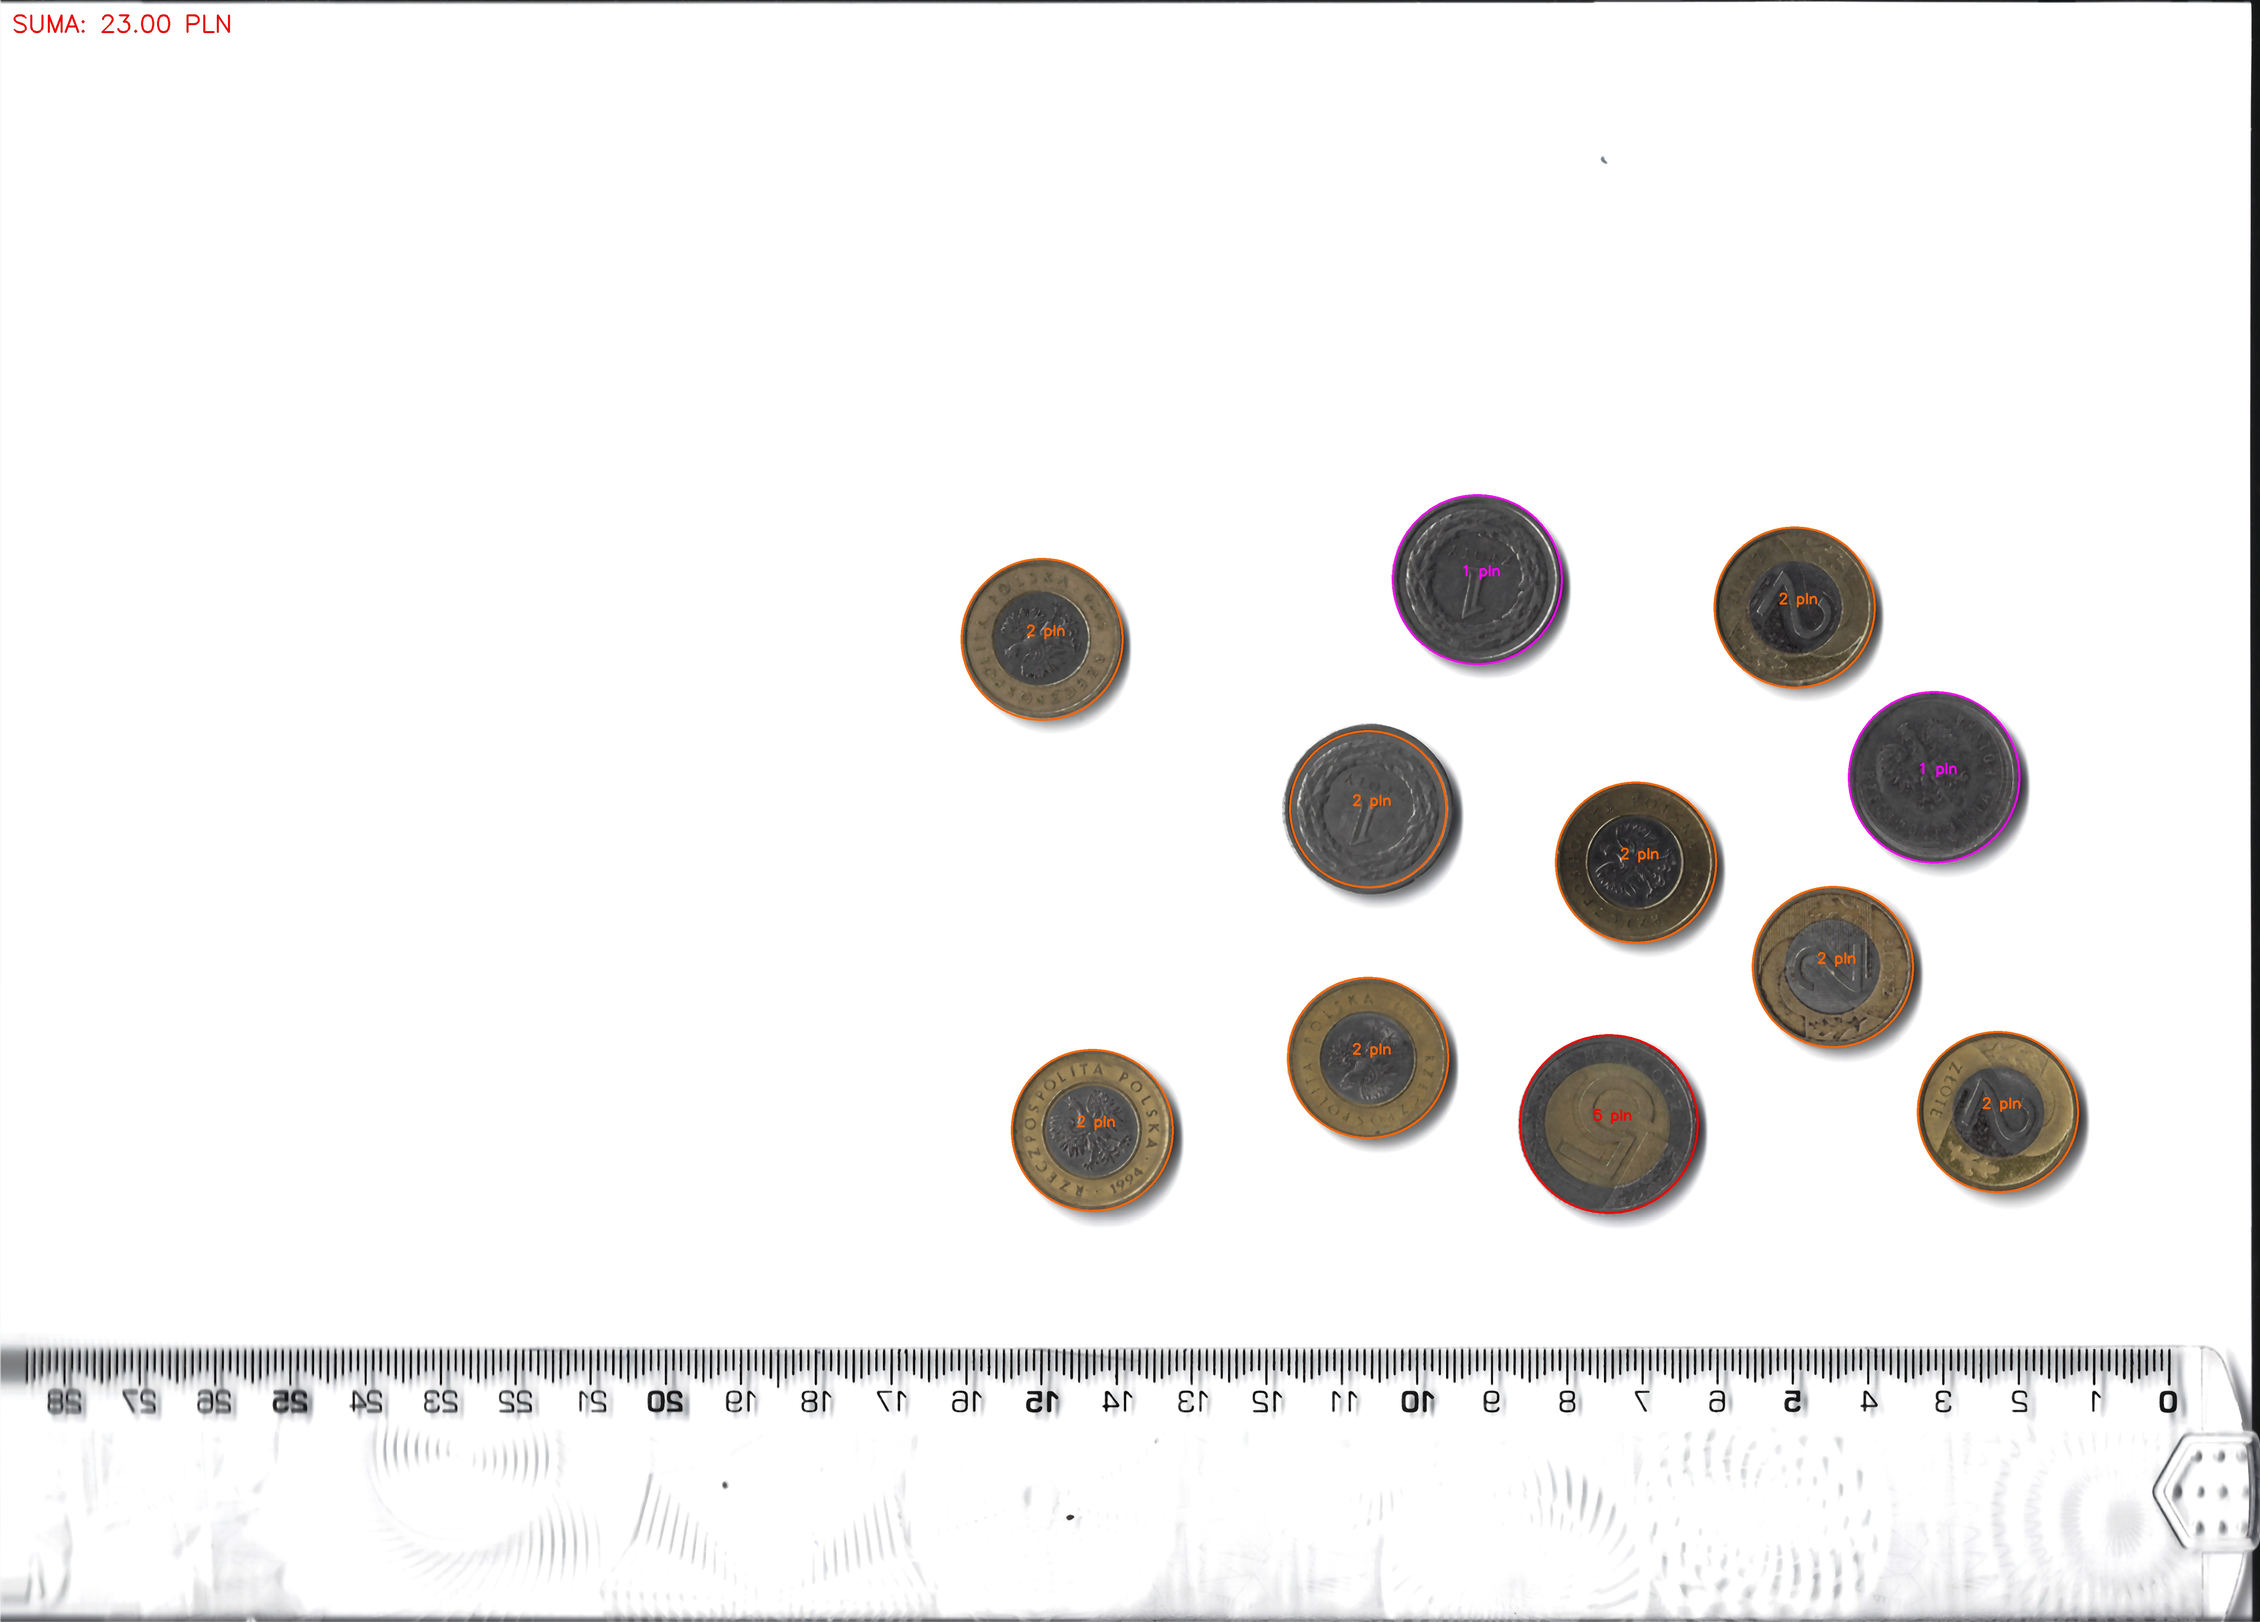
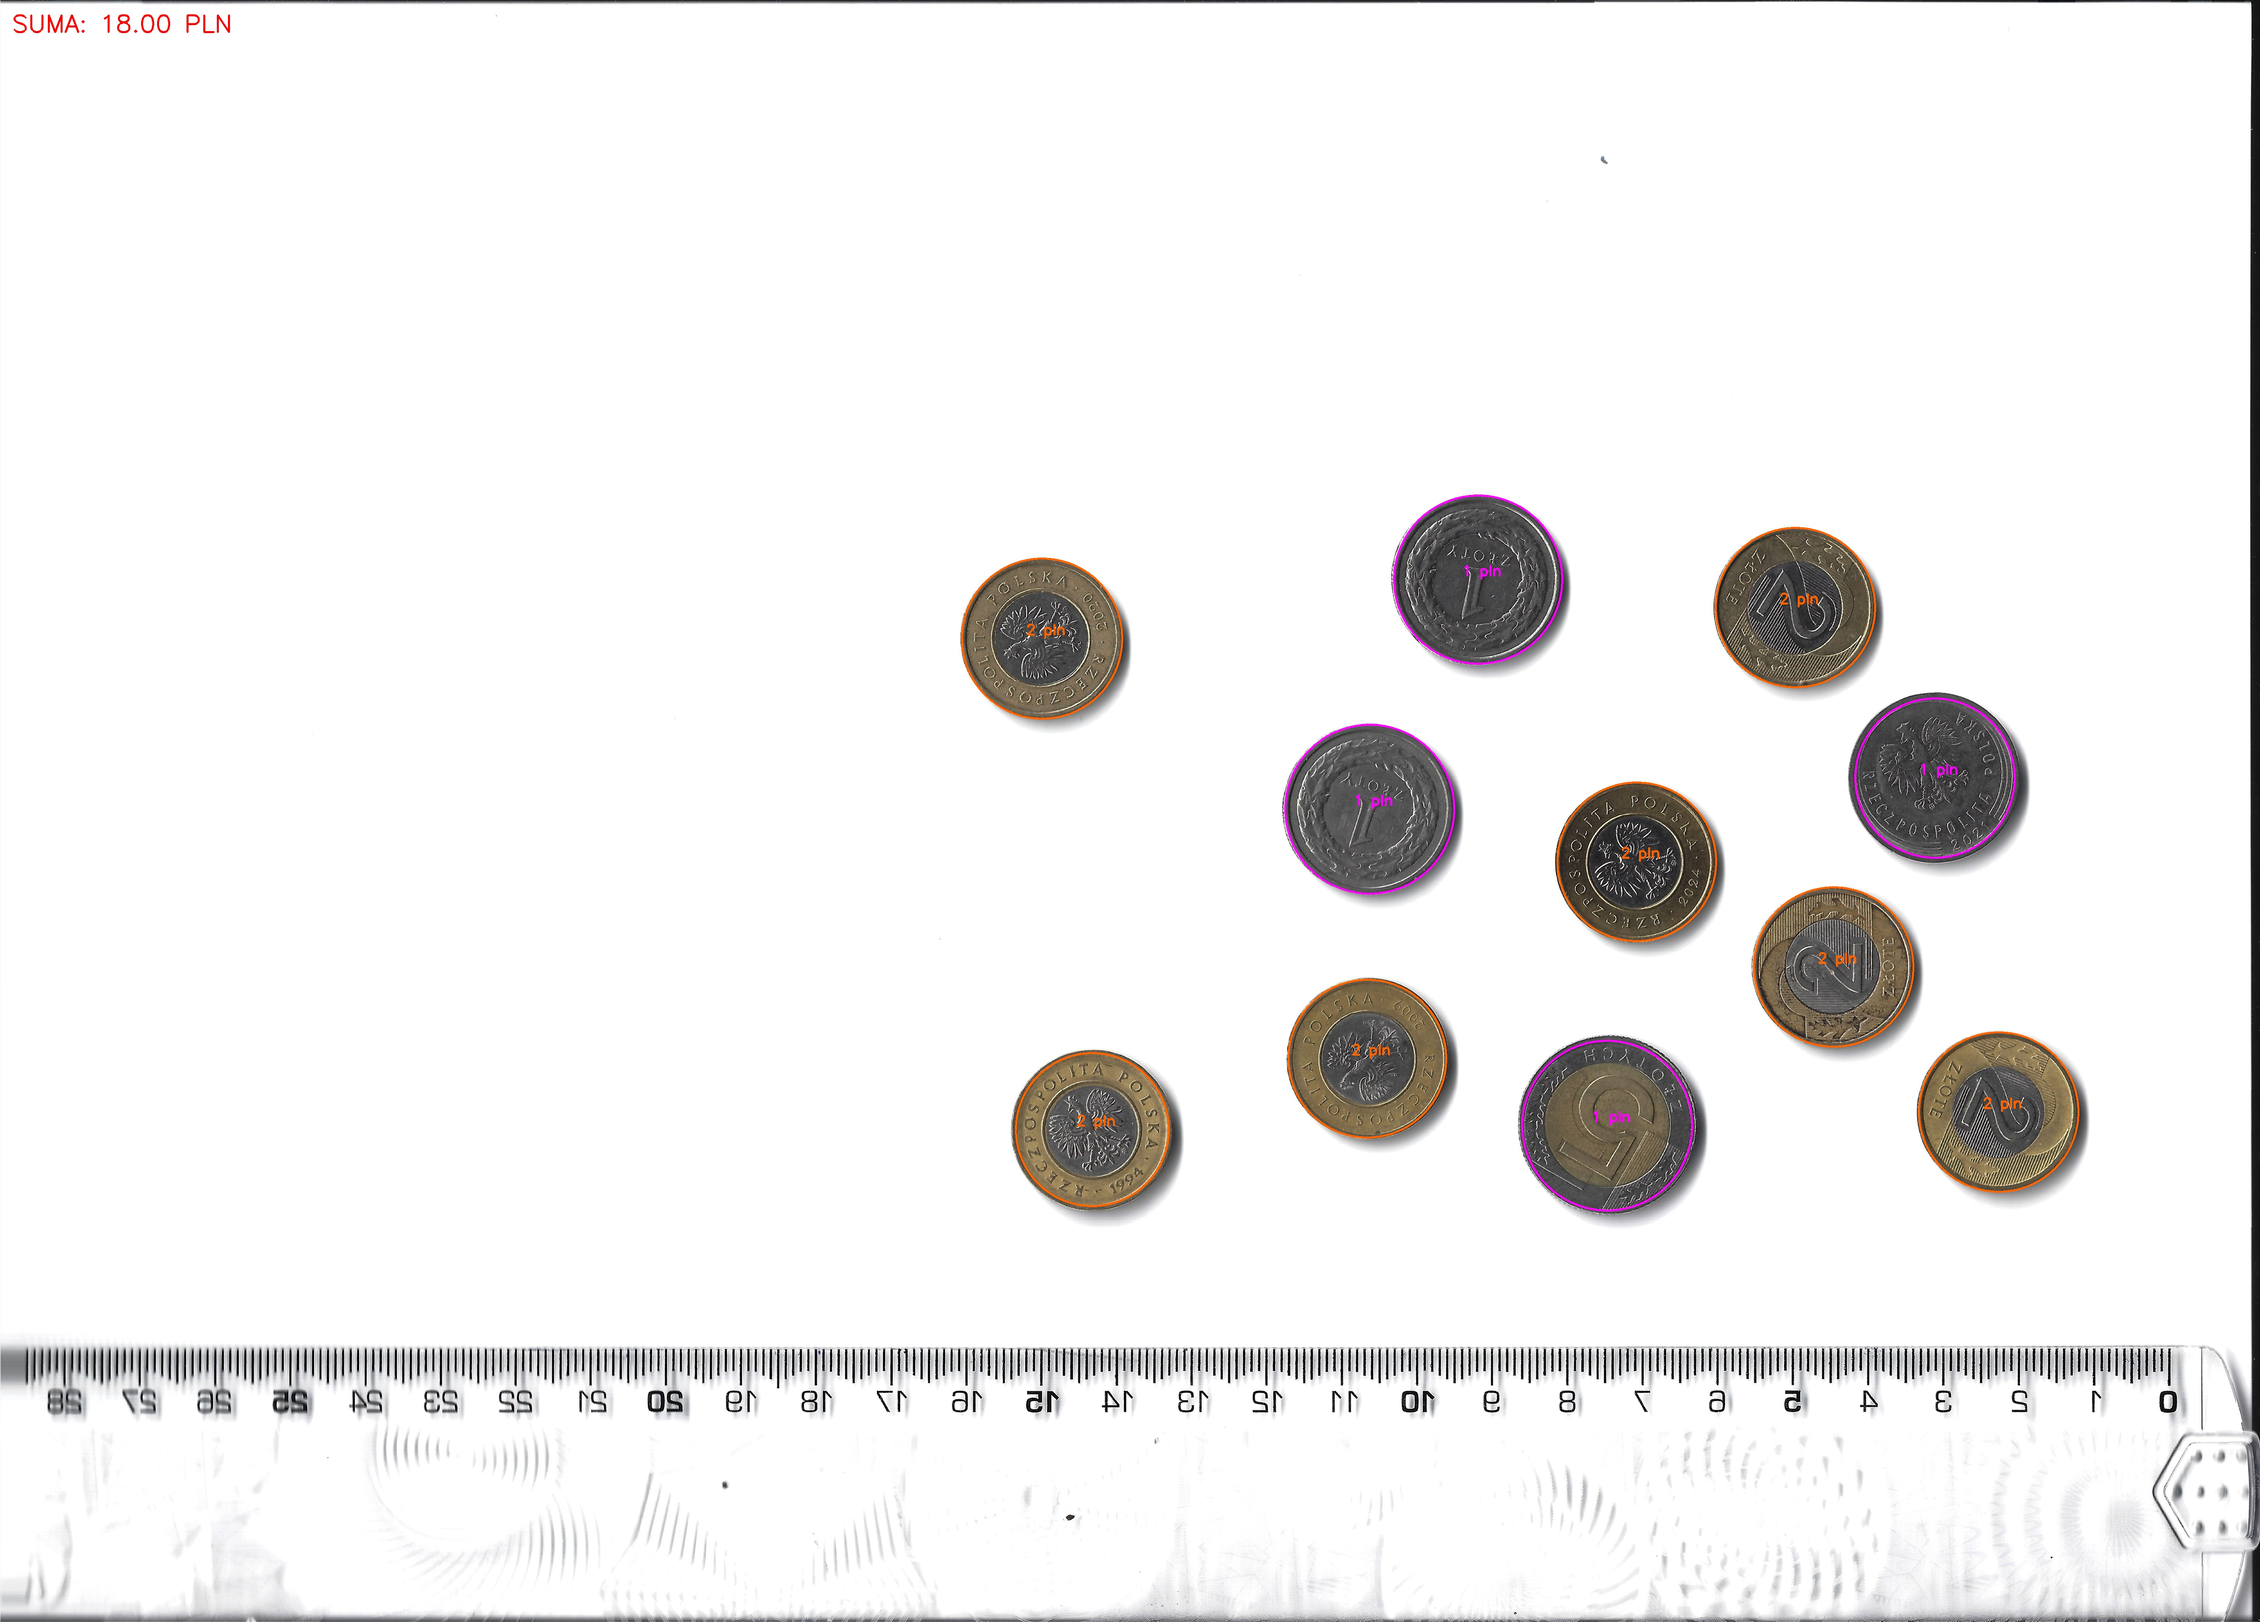
dużo zmian
algorytm dla flesza i skanera osiągnął zadowalające rezultaty, dla biurka tak średnio

diff --git a/rozpoznawianie.py b/rozpoznawianie.py
@@ -2,62 +2,70 @@ import cv2 as cv
 import numpy as np
 import os
 
-# skala do zmniejszenia obrazu w przypadku mniejszego monitora
 scale = 0.8
 
-# paramtetry monet
-
-# rozmiar
 coins = {
     "1 pln": 23.0,
     "2 pln": 21.5,
     "5 pln": 24.0
 }
 
-# wartosci
 values = {
     "1 pln": 1.00,
     "2 pln": 2.00,
     "5 pln": 5.00
 }
 
-# kolory
 colors = {
-    "1 pln": (255, 0, 255),   # Magenta
-    "2 pln": (0, 100, 255),   # Pomaranczowy
-    "5 pln": (0, 0, 255)      # Czerwony
+    "1 pln": (255, 0, 255),
+    "2 pln": (0, 100, 255),
+    "5 pln": (0, 0, 255)
 }
 
-# callback myszy
-# uzytkownik wskazuje dwa punkty oddalone o 1 cm
 def mouse_callback(event, x, y, flags, param):
     if event == cv.EVENT_LBUTTONDOWN:
         param["lista"].append((x, y))
         param["points"] += 1
         cv.circle(param["img"], (x, y), 10, (0, 0, 255), -1)
 
-# pusta funkcja wymagana przez createTrackbar
 def nothing(x):
     pass
 
-# wczytanie obrazu
-img_path = "photos/monety_flesz.JPG"
+
+img_path = "photos/biurko_kalibracja.jpg"
 img = cv.imread(img_path)
 
-# zabezpieczenie przed bledna sciezka lub brakiem pliku
 if img is None:
     print("Nie mozna otworzyc pliku", img_path)
     exit()
 
 img = cv.resize(img, None, fx=scale, fy=scale)
-img = cv.medianBlur(img, 7)  # poprawia stabilnosc HoughCircles
-gray = cv.cvtColor(img, cv.COLOR_BGR2GRAY)
 
-# stworzenie listy paramterow rozpoznanych pieniedzy
+gray = cv.cvtColor(img, cv.COLOR_BGR2GRAY)
+clahe = cv.createCLAHE(clipLimit=2.0, tileGridSize=(8, 8))
+gray = clahe.apply(gray)
+blur = cv.GaussianBlur(gray, (7, 7), 1.5)
+
+mask = cv.adaptiveThreshold(
+    blur, 255,
+    cv.ADAPTIVE_THRESH_GAUSSIAN_C,
+    cv.THRESH_BINARY_INV,
+    51, 3
+)
+edges = cv.Canny(mask, 80, 160)
+
+blur_bil = cv.bilateralFilter(gray, 9, 75, 75)
+
+ignore_height_px = int(img.shape[0] * 0.15)
+cv.rectangle(edges, (0, img.shape[0] - ignore_height_px), (img.shape[1], img.shape[0]), 0, -1)
+
+# >>> HSV
+hsv = cv.cvtColor(img, cv.COLOR_BGR2HSV)
+sat = hsv[:, :, 1]
+
 param = {"points": 0, "lista": [], "img": img.copy()}
 
-# poczatkowa kalibracja
-photo_ratio = 4/3
+photo_ratio = 4 / 3
 size_photo = 1000
 top_text = "Zaznacz odcinek 1cm na obrazku"
 cv.namedWindow(top_text, cv.WINDOW_NORMAL)
@@ -65,51 +73,35 @@ cv.resizeWindow(top_text, int(photo_ratio * size_photo), size_photo)
 
 while True:
     cv.imshow(top_text, param["img"])
-    if param["points"] == 2:  # po zaznaczeniu dwoch punktow wyjscie z petli
+    if param["points"] == 2:
         cv.destroyAllWindows()
         break
     cv.setMouseCallback(top_text, mouse_callback, param)
     if cv.waitKey(1) & 0xFF == ord('q'):
         break
 
-# przeliczenie pikseli na cm
 p1 = np.array(param["lista"][0])
 p2 = np.array(param["lista"][1])
-px_distance = np.linalg.norm(p1 - p2)
-px_per_cm = px_distance / 1.0
+px_per_cm = np.linalg.norm(p1 - p2)
 
-# dodanie zaznaczonego odcinka do zdjecia na stale, w celu lepszej analizy wynikow
 img_orig = img.copy()
-cv.circle(img_orig, tuple(param["lista"][0]), 10, (0, 0, 255), -1)
-cv.circle(img_orig, tuple(param["lista"][1]), 10, (0, 0, 255), -1)
-cv.line(img_orig, tuple(param["lista"][0]), tuple(param["lista"][1]), (0, 255, 0), 5)
-cv.putText(
-    img_orig, "1cm",
-    (param["lista"][0][0], param["lista"][0][1] - 10),
-    cv.FONT_HERSHEY_SIMPLEX, 1.8 * scale, (0, 255, 0), 3
-)
 
-# zakres srednic monet
-min_d_mm = min(coins.values()) - 2.0
-max_d_mm = max(coins.values()) + 2.0
+min_d_mm = min(coins.values()) - 1.5
+max_d_mm = max(coins.values()) + 1.5
 
-# przeliczenie na piksele
 minRadius_px = int((min_d_mm / 10.0 * px_per_cm) / 2.0)
 maxRadius_px = int((max_d_mm / 10.0 * px_per_cm) / 2.0)
 
-# dostrajanie detekcji
 window_name = "Dostrajanie Detekcji"
 cv.namedWindow(window_name, cv.WINDOW_NORMAL)
 cv.resizeWindow(window_name, int(photo_ratio * size_photo), size_photo)
 
-# utworzenie suwakow do kalibracji wykrywania
 cv.createTrackbar("Krawedzie (Param1)", window_name, 150, 400, nothing)
 cv.createTrackbar("Srodki (Param2)", window_name, 45, 100, nothing)
 cv.createTrackbar("Min Dystans (mm)", window_name, 18, 50, nothing)
 cv.createTrackbar("dp x10", window_name, 10, 20, nothing)
 
 while True:
-    # zmiana wartosci suwakow
     p1_val = max(cv.getTrackbarPos("Krawedzie (Param1)", window_name), 1)
     p2_val = max(cv.getTrackbarPos("Srodki (Param2)", window_name), 1)
     dist_mm = max(cv.getTrackbarPos("Min Dystans (mm)", window_name), 5)
@@ -117,10 +109,10 @@ while True:
     dp_val = max(cv.getTrackbarPos("dp x10", window_name), 10) / 10.0
 
     preview = img_orig.copy()
+    total_value = 0.0
 
-    # algorytm Hough Circles
     circles = cv.HoughCircles(
-        gray,
+        blur_bil,
         cv.HOUGH_GRADIENT,
         dp=dp_val,
         minDist=min_dist_px,
@@ -130,35 +122,46 @@ while True:
         maxRadius=maxRadius_px
     )
 
-    total_value = 0.0
-
     if circles is not None:
         circles = np.uint16(np.around(circles))
         for cx, cy, r in circles[0]:
+
             diameter_mm = (2 * r) / px_per_cm * 10
             diffs = {k: abs(v - diameter_mm) for k, v in coins.items()}
             best = min(diffs, key=diffs.get)
 
-            if diffs[best] < 0.8:
+            tolerance = 0.8 + 0.04 * diameter_mm
+
+            # >>> HSV – maska monety
+            mask_coin = np.zeros_like(gray)
+            cv.circle(mask_coin, (cx, cy), r, 255, -1)
+            mean_sat = cv.mean(sat, mask_coin)[0]
+
+            label = "?"
+            color = (0, 255, 255)
+
+            if diffs[best] < tolerance:
+                # korekta HSV
+                if best == "1 pln" and mean_sat > 55:
+                    best = "2 pln"
+                elif best in ["2 pln", "5 pln"] and mean_sat < 40:
+                    best = "1 pln"
+
+                label = best
                 color = colors[best]
                 total_value += values[best]
-                label = best
-            else:
-                color = (0, 255, 255)
-                label = "?"
 
-            # umieszczenie etykiet na monetach
             cv.circle(preview, (cx, cy), r, color, 6)
             cv.putText(
-                preview, label,
+                preview, f"{label}",
                 (cx - 50, cy - 15),
                 cv.FONT_HERSHEY_SIMPLEX, 2.5 * scale, color, 8
             )
 
-    # umieszczenie zliczonej sumy na zdjeciu
     cv.putText(
         preview, f"SUMA: {total_value:.2f} PLN",
-        (40, 200), cv.FONT_HERSHEY_SIMPLEX,
+        (40, 200),
+        cv.FONT_HERSHEY_SIMPLEX,
         10 * scale, (0, 0, 255), int(15 * scale)
     )
 
@@ -166,20 +169,12 @@ while True:
     cv.imshow(window_name, preview)
 
     if cv.waitKey(1) & 0xFF == ord('q'):
-        # wypisanie parametrow przy wyjsciu, moze w przyszlosci znalezc zastosowanie przy uczeniu maszynowym
-        print("Finalne parametry HoughCircles:")
-        print(f"dp={dp_val}, param1={p1_val}, param2={p2_val}, minDist={min_dist_px} (px)")
         break
 
 cv.destroyAllWindows()
 
-# prezentacja finalnego obrazu i zapisanie go do zdjecia w formacie png
 cv.imshow("Finalny Wynik (Zapisano)", preview_final)
-cv.imwrite("wynik_detekcji.png", preview_final)
+cv.imwrite("wyniki/do_sprawozdania/kalibracja.png", preview_final)
 print(f"\nZapisano wynik. Suma: {total_value:.2f} PLN")
 cv.waitKey(0)
 cv.destroyAllWindows()
-
-
-# w zjeciu z detekcją do pokazaniu suwaków zrobić nowy, który
-# dodać opis preprocessingu 

diff --git a/analiza.py b/analiza.py
@@ -4,17 +4,16 @@ import os
 
 # ===================== KONFIGURACJA =====================
 
-
-# skany ze zdjęcia w 600 dpi
 PHOTOS_DIR = "photos"
 RESULTS_DIR = "wyniki"
 MAX_IMAGES_PER_VARIANT = 10
 SCALE_DISPLAY = 0.8
+IGNORE_BOTTOM_PERCENT = 0.1
 
 wariant = {
-    "skaner": {"param1": 184, "param2": 40},
-    "biurko": {"param1": 206, "param2": 45},
-    "flesz":  {"param1": 260, "param2": 45}
+    # "skaner": {"param1": 150, "param2": 40, "dp": 1.0},
+    "biurko": {"param1": 206, "param2": 45, "dp": 1.0},
+    # "flesz":  {"param1": 150, "param2": 60, "dp": 1.0}
 }
 
 coins = {
@@ -69,20 +68,31 @@ with open("wyniki.txt", "w", encoding="utf-8") as wyniki_txt:
 
             img_path = os.path.join(folder, img_name)
             img = cv.imread(img_path)
-
             if img is None:
                 continue
 
             img = cv.resize(img, None, fx=SCALE_DISPLAY, fy=SCALE_DISPLAY)
-            img = cv.medianBlur(img, 7)
+            h_img, w_img = img.shape[:2]
+
             gray = cv.cvtColor(img, cv.COLOR_BGR2GRAY)
+            clahe = cv.createCLAHE(clipLimit=2.0, tileGridSize=(8, 8))
+            gray = clahe.apply(gray)
+            gray_blur = cv.GaussianBlur(gray, (7, 7), 1.5)
+
+            ignore_h = int(h_img * IGNORE_BOTTOM_PERCENT)
+            gray_for_hough = gray_blur.copy()
+            cv.rectangle(gray_for_hough, (0, h_img - ignore_h), (w_img, h_img), 0, -1)
+
+            hsv = cv.cvtColor(img, cv.COLOR_BGR2HSV)
+            sat = hsv[:, :, 1]
+
 
             # ---------- KALIBRACJA SKALI ----------
             calib = {"points": 0, "pts": [], "img": img.copy()}
-
             win_name = f"Skala 1cm: {img_name}"
+
             cv.namedWindow(win_name, cv.WINDOW_NORMAL)
-            cv.imshow(win_name, calib["img"])
+            # cv.imshow(win_name, calib["img"])
             cv.setMouseCallback(win_name, mouse_callback, calib)
 
             while calib["points"] < 2:
@@ -91,7 +101,6 @@ with open("wyniki.txt", "w", encoding="utf-8") as wyniki_txt:
                     break
 
             cv.destroyAllWindows()
-
             if calib["points"] < 2:
                 continue
 
@@ -100,17 +109,17 @@ with open("wyniki.txt", "w", encoding="utf-8") as wyniki_txt:
             px_per_cm = np.linalg.norm(p1 - p2)
 
             # ---------- ZAKRES PROMIENI ----------
-            min_d_mm = min(coins.values()) - 2.0
-            max_d_mm = max(coins.values()) + 2.0
+            min_d_mm = min(coins.values()) - 1.5
+            max_d_mm = max(coins.values()) + 1.5
 
             minR = int((min_d_mm / 10 * px_per_cm) / 2)
             maxR = int((max_d_mm / 10 * px_per_cm) / 2)
 
             # ---------- HOUGH CIRCLES ----------
             circles = cv.HoughCircles(
-                gray,
+                gray_for_hough,
                 cv.HOUGH_GRADIENT,
-                dp=1.0,
+                dp=hough_params["dp"],
                 minDist=int(1.8 * px_per_cm),
                 param1=hough_params["param1"],
                 param2=hough_params["param2"],
@@ -129,14 +138,24 @@ with open("wyniki.txt", "w", encoding="utf-8") as wyniki_txt:
                     diffs = {k: abs(v - diameter_mm) for k, v in coins.items()}
                     best = min(diffs, key=diffs.get)
 
-                    if diffs[best] < 0.8:
+                    tolerance = 0.8 + 0.04 * diameter_mm
+
+                    mask_coin = np.zeros_like(gray)
+                    cv.circle(mask_coin, (cx, cy), r, 255, -1)
+                    mean_sat = cv.mean(sat, mask=mask_coin)[0]
+
+                    if diffs[best] < tolerance:
+
+                        if best == "1 pln" and mean_sat > 55:
+                            best = "2 pln"
+                        elif best in ["2 pln", "5 pln"] and mean_sat < 40:
+                            best = "1 pln"
+
+
                         color = colors[best]
                         label = best
                         total_value += values[best]
                         detected += 1
-                    else:
-                        color = (0, 255, 255)
-                        label = "?"
 
                     cv.circle(preview, (cx, cy), r, color, 4)
                     cv.putText(
@@ -163,5 +182,17 @@ with open("wyniki.txt", "w", encoding="utf-8") as wyniki_txt:
             )
 
             print(f"  {img_name} -> {total_value:.2f} PLN")
+
+            # ---------- WYŚWIETLENIE WYNIKU ----------
+            show_name = f"Wynik: {img_name}"
+            cv.namedWindow(show_name, cv.WINDOW_NORMAL)
+            cv.imshow(show_name, preview)
+
+            key = cv.waitKey(0)
+            cv.destroyWindow(show_name)
+
+            if key == 27:  # ESC
+                print("Przerwano przez użytkownika.")
+                exit()
 
 print("\nZAKOŃCZONO PRZETWARZANIE")
